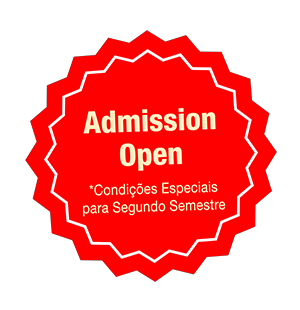
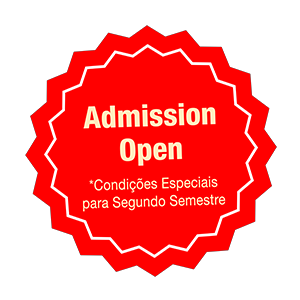
img optimization

diff --git a/mb-sbc/src/routes/+page.svelte b/mb-sbc/src/routes/+page.svelte
@@ -5,14 +5,24 @@
 
 </script>
 
+<svelte:head>
+	<meta name="description" content="Maple Bear São Bernardo do Campo - Matrículas abertas!" />
+	<!-- Facebook Meta Tags -->
+	<meta property="og:image" content="/favicon.png" />
+	<!-- Twitter Meta Tags -->
+	<meta name="twitter:card" content="summary_large_image" />
+	<meta name="twitter:image" content=/favicon.png" />
+	<!-- Meta Tags Generated via https://www.opengraph.xyz -->
+</svelte:head>
+
 <div class="container grid grid-flow-row lg:grid-flow-col lg:grid-cols-2 gap-0 lg:mt-[5vh] mx-auto bg-surface-50 overflow-hidden">
 	<div class="relative">
 		<div class="grid gap-1 absolute top-3 left-3 z-40">
-			<img src="mb-sbc-flags.png" alt="Admisson" class="w-32 h-auto lg:w-40">
+			<img src="mb-sbc-flags.png" alt="Admisson" width="128" height="22" class="w-32 h-auto lg:w-40">
 		</div>
 		<div class="grid gap-1 absolute top-0 right-0 lg:-right-12 2xl:-right-16 z-50">
-			<img src="mb-sbc-admission.png" alt="Admisson" class="animate-ping w-24 h-24 2xl:w-32 2xl:h-32">
-			<img src="mb-sbc-certify.png" alt="Certificates" class="animate-ping w-24 h-24 2xl:w-32 2xl:h-32 mx-auto">
+			<img src="mb-sbc-admission.png" alt="Admisson" width="96" height="96" class="animate-ping w-24 h-24 2xl:w-32 2xl:h-32">
+			<img src="mb-sbc-certify.png" alt="Certificates" width="96" height="96" class="animate-ping w-24 h-24 2xl:w-32 2xl:h-32 mx-auto">
 		</div>
 		<HeroSlider />
 	</div>

diff --git a/mb-sbc/src/lib/components/Footer.svelte b/mb-sbc/src/lib/components/Footer.svelte
@@ -103,7 +103,7 @@
 			<div class="grid grid-flow-col gap-2 mt-8 lg:mt-12 md:justify-center bg-primary-900 w-full py-4 px-8 lg:px-16">
 				<div>
 					<a href="https://goo.gl/maps/iwgn9t9wgB2V7rSt9" title="Maple Bear - SBC" target="_new">
-						<h4 class="mb-2 font-semibold uppercase">Unidade São Bernardo do Campo, SP</h4>
+						<p class="mb-2 font-semibold uppercase">Unidade São Bernardo do Campo, SP</p>
 						<p class="self-center text-xs max-w-[38ch] md:max-w-full break-words mx-auto">Rua Dom Paulo Mariano, 393 - Nova Petrópolis <span class="hidden md:inline">•</span> CEP 09770-320 - São Bernardo do Campo, SP</p>
 					</a>
 				</div>
